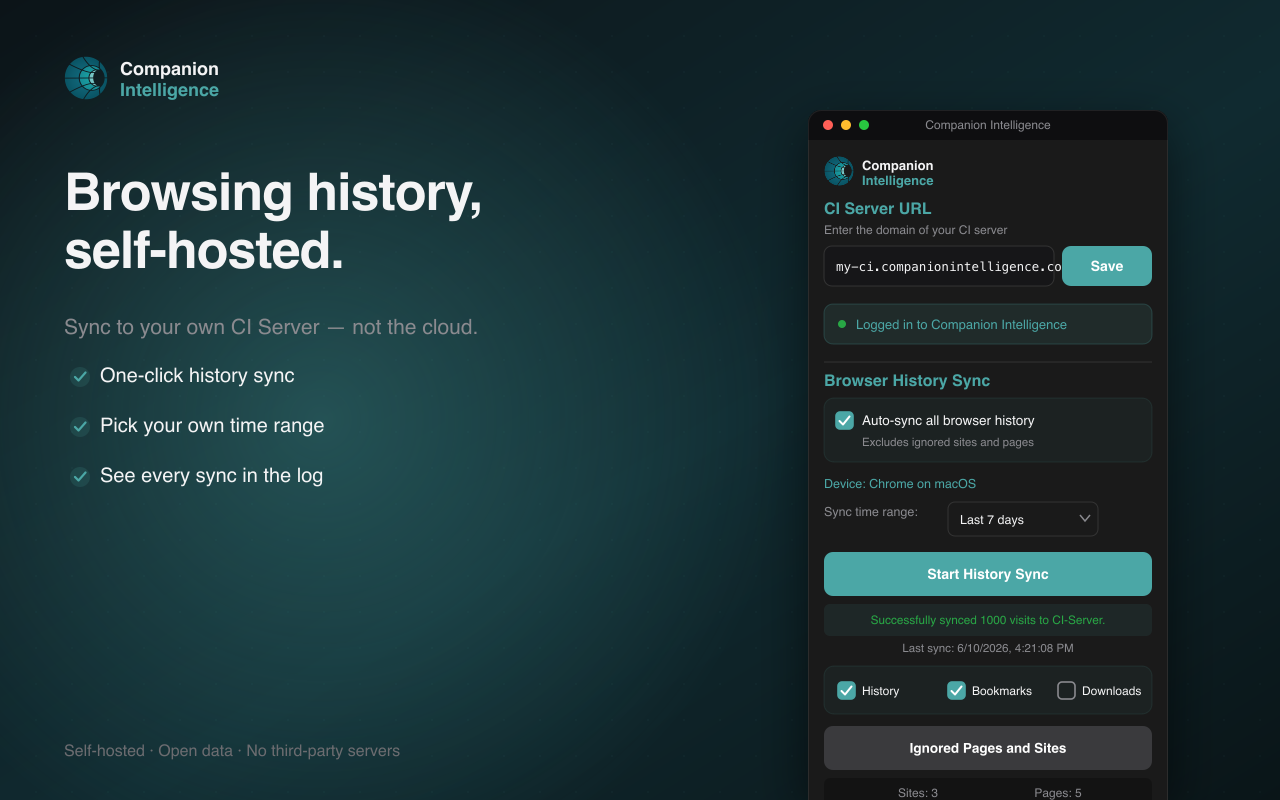
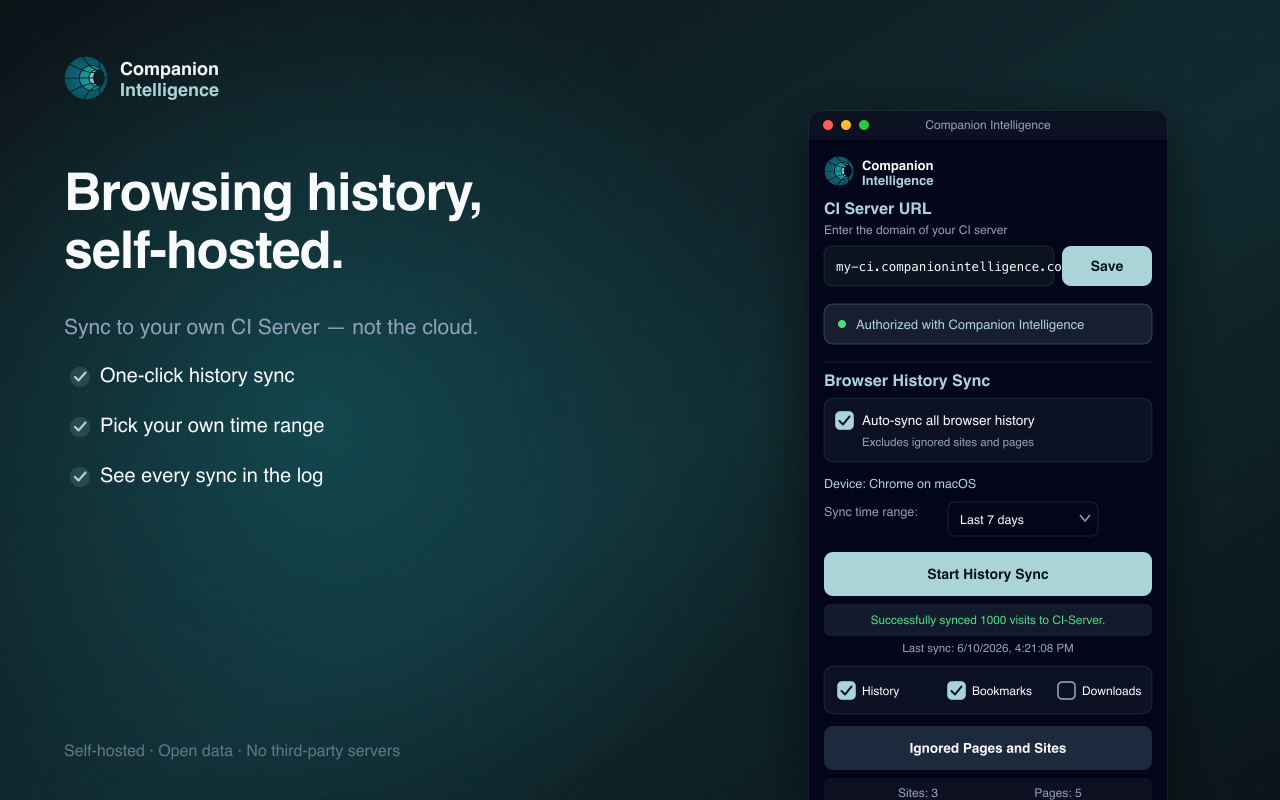
style(popup): migrate App.tsx to CI tokens + regenerate marketing/UI art (#57)
* style(popup): migrate App.tsx to CI design-system tokens

Consume the canonical teal --primary, semantic status tokens, and
enriched palette v0.2.0 that PR #55 landed in theme.css. The popup was
the last file still hardcoding ~125 hex values in Tailwind arbitrary
classes (an off-canon teal #4ba7a6 for headings/CTAs/accents, raw
#dc3545/#28a745/#ffc107 status colors, and #333/#888/#666/#ddd grays).

- #4ba7a6 -> text-primary / bg-primary (or the default Button variant)
- primary "Authorize" CTA -> var(--gradient-brand)
- #dc3545 -> text-destructive / bg-destructive; Clear button now relies
  on its variant="destructive"
- getStatusColor returns var(--success|--destructive|--warning|
  --muted-foreground) so log status colors track the theme
- grays -> muted-foreground / border-border / bg-muted / bg-secondary
- collapse the dead dark:*/light:* triplets (no light: variant exists)
  into single theme-adaptive token classes

Fixes light-theme adaptivity: the sync-log table was a hardcoded
#1a1a1a box that ignored the theme; it now renders as bg-card.
Layout and behavior unchanged; colors move to the canon.

Verified: yarn build (Chrome MV3) passes, tsc --noEmit + eslint clean,
lint-canon hex warnings on App.tsx 94 -> 0, and a light/dark visual
before/after against the production-compiled popup.css.

* style(store-assets): regenerate marketing/UI art with canonical CI teal

The README/store screenshots embedded the popup in the off-canon teal
[…]

diff --git a/src/entrypoints/popup/App.tsx b/src/entrypoints/popup/App.tsx
@@ -268,16 +268,18 @@ export default function App() {
     linkElement.click();
   };
 
+  // Map sync-log statuses onto the design-system semantic tokens (defined in
+  // theme.css for both light and dark), so status colors track the theme.
   const getStatusColor = (status: string) => {
     switch (status) {
       case "success":
-        return "#28a745";
+        return "var(--success)";
       case "failed":
-        return "#dc3545";
+        return "var(--destructive)";
       case "partial":
-        return "#ffc107";
+        return "var(--warning)";
       default:
-        return "#6c757d";
+        return "var(--muted-foreground)";
     }
   };
 
@@ -318,10 +320,10 @@ export default function App() {
       >
         {/* CI Server URL Section */}
         <div className="mb-6">
-          <h4 className="m-0 mb-2 text-[#4ba7a6] text-[1.25em] font-semibold">
+          <h4 className="m-0 mb-2 text-primary text-[1.25em] font-semibold">
             CI Server URL
           </h4>
-          <p className="mb-3 text-[1em] text-[#888]">
+          <p className="mb-3 text-[1em] text-muted-foreground">
             Enter the domain of your CI server
           </p>
           <form onSubmit={changeDomain} className="flex flex-col gap-2">
@@ -340,7 +342,7 @@ export default function App() {
               </div>
               <Button
                 onClick={changeDomain}
-                className="bg-[#4ba7a6] text-white border-[#4ba7a6] hover:bg-[#2f6b7e] hover:border-[#2f6b7e] min-h-[44px] active:translate-y-[1px] transition-all"
+                className="min-h-[44px] active:translate-y-[1px] transition-all"
               >
                 Save
               </Button>
@@ -351,7 +353,7 @@ export default function App() {
         {domain?.length > 0 &&
           (token ? (
             <Button
-              className="text-center mb-4 size-4 p-2 text-[#888] rounded-lg h-10 border-t bg-[rgba(75,167,166,0.1)] block w-full font-medium no-underline hover:bg-[rgba(75,167,166,0.15)] transition-colors"
+              className="text-center mb-4 size-4 p-2 text-muted-foreground rounded-lg h-10 border-t bg-primary/10 block w-full font-medium no-underline hover:bg-primary/15 transition-colors"
               onClick={() => {
                 window.open(`https://${serverDomain}`, "_blank");
               }}
@@ -362,14 +364,15 @@ export default function App() {
             <Button
               onClick={handleAuthorize}
               disabled={authorizing}
-              className="text-center mb-4 p-2 rounded-lg h-10 block w-full font-medium no-underline transition-colors bg-[#4ba7a6] text-white border-[#4ba7a6] hover:bg-[#2f6b7e] hover:border-[#2f6b7e] disabled:opacity-60 disabled:cursor-not-allowed"
+              style={{ background: "var(--gradient-brand)" }}
+              className="text-center mb-4 p-2 rounded-lg h-10 block w-full font-medium no-underline transition-all text-white hover:opacity-90 disabled:opacity-60 disabled:cursor-not-allowed"
             >
               {authorizing ? "Authorizing…" : "Authorize with Companion"}
             </Button>
           ))}
 
         {authError && (
-          <div className="mb-4 p-2 rounded text-[0.85em] text-[#dc3545] bg-[rgba(220,53,69,0.1)]">
+          <div className="mb-4 p-2 rounded text-[0.85em] text-destructive bg-destructive/10">
             {authError}
           </div>
         )}
@@ -377,19 +380,19 @@ export default function App() {
         {token && (
           <div className="mt-6 pt-4">
             <div className="mb-4">
-              <h4 className="m-0 mb-2 text-[#4ba7a6] text-[1.25em] font-semibold pt-4 border-t border-[#333] dark:border-[#333] light:border-[#ddd]">
+              <h4 className="m-0 mb-2 text-primary text-[1.25em] font-semibold pt-4 border-t border-border">
                 Browser History Sync
               </h4>
             </div>
 
-            <Field className="mb-4 p-4 bg-[rgba(75,167,166,0.05)] dark:bg-[rgba(75,167,166,0.05)] light:bg-[rgba(75,167,166,0.08)] rounded-lg text-left">
+            <Field className="mb-4 p-4 bg-primary/5 rounded-lg text-left">
               <Field orientation="horizontal">
                 <Checkbox
                   id="auto-sync-enabled"
                   name="auto-sync-enabled"
                   checked={autoSyncEnabled}
                   onCheckedChange={handleAutoSyncToggle}
-                  className="w-[18px] h-[18px] cursor-pointer accent-[#4ba7a6]"
+                  className="w-[18px] h-[18px] cursor-pointer accent-primary"
                 />
                 <Field.Label
                   htmlFor="auto-sync-enabled"
@@ -398,26 +401,26 @@ export default function App() {
                   Auto-sync all browser history
                 </Field.Label>
               </Field>
-              <Field.Description className="mt-2 ml-7 text-[#888] dark:text-[#888] light:text-[#666] leading-[1.4] text-[0.9em]">
+              <Field.Description className="mt-2 ml-7 text-muted-foreground leading-[1.4] text-[0.9em]">
                 Excludes ignored sites and pages
               </Field.Description>
             </Field>
 
             {deviceId ? (
               <div className="mb-4 p-3 rounded text-left">
-                <p className="m-0 text-[0.9em] text-[#4ba7a6]">
+                <p className="m-0 text-[0.9em] text-primary">
                   Device: {deviceName || "Unknown Device"}
                 </p>
               </div>
             ) : (
               <div className="mb-4 p-3 rounded text-left">
-                <p className="m-0 text-[0.9em] text-[#888] mb-2">
+                <p className="m-0 text-[0.9em] text-muted-foreground mb-2">
                   Not Authenticated
                 </p>
-                <p className="text-[0.9em] text-[#888] my-2">
+                <p className="text-[0.9em] text-muted-foreground my-2">
                   Please log in through the main application first.
                 </p>
-                <p className="text-[0.8em] text-[#666] my-1 italic">
+                <p className="text-[0.8em] text-muted-foreground my-1 italic">
                   This extension requires authentication to sync browser
                   history.
                 </p>
@@ -429,7 +432,7 @@ export default function App() {
               <div className="mb-3 flex items-center gap-2 flex-wrap">
                 <label
                   htmlFor="syncTimeRange"
-                  className="text-[0.9em] font-medium text-[#888]"
+                  className="text-[0.9em] font-medium text-muted-foreground"
                 >
                   Sync time range:
                 </label>
@@ -438,7 +441,7 @@ export default function App() {
                   value={syncTimeRange}
                   onChange={(e) => setSyncTimeRange(e.target.value)}
                   disabled={historySyncInProgress}
-                  className="w-[140px] min-h-[36px] text-sm rounded-md text-foreground border border-[#333] bg-transparent px-3 py-2 text-[#fff] outline-none focus:border-[#4ba7a6] focus:ring-2 focus:ring-[#4ba7a6]/50 disabled:cursor-not-allowed disabled:opacity-50 hover:bg-[rgba(75,167,166,0.05)]"
+                  className="w-[140px] min-h-[36px] text-sm rounded-md text-foreground border border-border bg-transparent px-3 py-2 outline-none focus:border-primary focus:ring-2 focus:ring-primary/50 disabled:cursor-not-allowed disabled:opacity-50 hover:bg-primary/5"
                 >
                   <option value="1">Last 24 hours</option>
                   <option value="7">Last 7 days</option>
@@ -453,26 +456,26 @@ export default function App() {
                 disabled={historySyncInProgress}
                 className={`rounded-lg border border-transparent px-[1.4em] py-[0.8em] text-base font-medium font-inherit cursor-pointer transition-all min-h-[44px] min-w-[44px] w-full touch-manipulation ${
                   historySyncInProgress
-                    ? "opacity-60 cursor-not-allowed bg-[#333] dark:bg-[#333] light:bg-[#f0f0f0] text-[#888] dark:text-[#888] light:text-[#999] border-[#333] dark:border-[#333] light:border-[#ddd]"
-                    : "bg-[#4ba7a6] text-white border-[#4ba7a6] hover:bg-[#2f6b7e] hover:border-[#2f6b7e] active:translate-y-[1px]"
+                    ? "opacity-60 cursor-not-allowed bg-muted text-muted-foreground border-border"
+                    : "bg-primary text-primary-foreground border-primary hover:bg-primary/90 active:translate-y-[1px]"
                 }`}
               >
                 {historySyncInProgress ? "Syncing..." : "Start History Sync"}
               </Button>
             </div>
             {historySyncStatus && (
-              <div className="text-[0.85em] text-[#666] dark:text-[#666] light:text-[#333] my-2 p-2 rounded bg-[rgba(75,167,166,0.1)]">
+              <div className="text-[0.85em] text-muted-foreground my-2 p-2 rounded bg-primary/10">
                 {historySyncStatus}
               </div>
             )}
             {lastHistorySync && (
-              <div className="text-[1em] text-[#888] dark:text-[#888] light:text-[#666] text-center">
+              <div className="text-[1em] text-muted-foreground text-center">
                 Last sync: {new Date(lastHistorySync).toLocaleString()}
               </div>
             )}
 
             {/* Compact sync toggles moved below sync button */}
-            <div className="flex flex-col gap-2 mt-4 p-4 bg-[rgba(75,167,166,0.05)] rounded-lg border-t border-[rgba(75,167,166,0.2)]">
+            <div className="flex flex-col gap-2 mt-4 p-4 bg-primary/5 rounded-lg border-t border-primary/20">
               <Field.Group className="max-w-lg w-full">
                 <Field orientation="horizontal">
                   <Checkbox
@@ -480,7 +483,7 @@ export default function App() {
                     name="history-sync-enabled"
                     checked={historySyncEnabled}
                     onCheckedChange={handleHistorySyncToggle}
-                    className="w-[18px] h-[18px] cursor-pointer accent-[#4ba7a6]"
+                    className="w-[18px] h-[18px] cursor-pointer accent-primary"
                   />
                   <Label htmlFor="history-sync-enabled">History</Label>
                 </Field>
@@ -506,16 +509,16 @@ export default function App() {
             </div>
 
             {/* Sync History & Logs Section */}
-            <div className="mt-6 pt-6 border-t border-[#333] dark:border-[#333] light:border-[#ddd]">
+            <div className="mt-6 pt-6 border-t border-border">
               <div className="flex justify-between items-center mb-3 flex-wrap gap-2">
-                <h4 className="text-[0.95em] m-0 text-[#4ba7a6] font-semibold">
+                <h4 className="text-[0.95em] m-0 text-primary font-semibold">
                   Sync History & Logs
                 </h4>
                 <div className="flex gap-2 items-center flex-wrap">
                   <Button
                     onClick={() => setShowSyncLogs(!showSyncLogs)}
                     variant="outline"
-                    className="text-xs px-2 py-1 bg-transparent text-[#4ba7a6] border-[#4ba7a6] hover:bg-[rgba(75,167,166,0.1)] min-h-[36px]"
+                    className="text-xs px-2 py-1 bg-transparent text-primary border-primary hover:bg-primary/10 min-h-[36px]"
                   >
                     {showSyncLogs
                       ? "Hide Logs"
@@ -526,7 +529,7 @@ export default function App() {
                       <Button
                         onClick={exportSyncLogs}
                         variant="outline"
-                        className="text-xs px-2 py-1 bg-transparent text-[#4ba7a6] border-[#4ba7a6] hover:bg-[rgba(75,167,166,0.1)] min-h-[36px]"
+                        className="text-xs px-2 py-1 bg-transparent text-primary border-primary hover:bg-primary/10 min-h-[36px]"
                         title="Export logs as JSON file"
                       >
                         Export
@@ -534,7 +537,7 @@ export default function App() {
                       <Button
                         onClick={clearSyncLogs}
                         variant="destructive"
-                        className="text-xs px-2 py-1 bg-[#dc3545] text-white border-[#dc3545] hover:bg-[#c82333] hover:border-[#c82333] min-h-[36px]"
+                        className="text-xs px-2 py-1 min-h-[36px]"
                         title="Clear all sync logs"
                       >
                         Clear
@@ -547,12 +550,12 @@ export default function App() {
               {showSyncLogs && (
                 <div className="mt-3">
                   {syncHistoryLogs.length === 0 ? (
-                    <div className="text-center p-4 text-[#888] text-xs italic bg-white/5 border border-dashed border-[#333] rounded">
+                    <div className="text-center p-4 text-muted-foreground text-xs italic bg-white/5 border border-dashed border-border rounded">
                       No sync operations recorded yet.
                     </div>
                   ) : (
-                    <Card className="bg-[#1a1a1a] dark:bg-[#1a1a1a] light:bg-[#f9f9f9] rounded border border-[#333] dark:border-[#333] light:border-[#ddd] overflow-hidden">
-                      <div className="grid gap-2 p-2 bg-[#333] dark:bg-[#333] light:bg-[#f0f0f0] font-semibold text-xs text-white dark:text-white light:text-[#213547] grid-cols-[2fr_1fr_1fr]">
+                    <Card className="bg-card rounded border border-border overflow-hidden">
+                      <div className="grid gap-2 p-2 bg-muted font-semibold text-xs text-foreground grid-cols-[2fr_1fr_1fr]">
                         <span>Date & Time</span>
                         <span>Range</span>
                         <span>Status</span>
@@ -571,7 +574,7 @@ export default function App() {
                         }) => (
                           <div
                             key={log.id}
-                            className="grid gap-2 p-2 text-background border-b border-[#333] dark:border-[#333] light:border-[#e0e0e0] text-xs items-center last:border-b-0 even:bg-white/[0.02] dark:even:bg-white/[0.02] light:even:bg-[#f7f7f7] grid-cols-[2fr_1fr_1fr]"
+                            className="grid gap-2 p-2 text-background border-b border-border text-xs items-center last:border-b-0 even:bg-white/[0.02] grid-cols-[2fr_1fr_1fr]"
                           >
                             <div className="font-mono text-xs truncate">
                               {new Date(log.timestamp).toLocaleString()}
@@ -589,7 +592,7 @@ export default function App() {
                                 log.status.slice(1)}
                               {log.error && (
                                 <div
-                                  className="text-[10px] text-[#dc3545] mt-1 italic truncate"
+                                  className="text-[10px] text-destructive mt-1 italic truncate"
                                   title={log.error}
                                 >
                                   ⚠ {log.error.substring(0, 20)}...
@@ -608,15 +611,15 @@ export default function App() {
             <div className="flex flex-col gap-2 mb-4 mt-4">
               <Button
                 onClick={() => setShowBlacklistManager(true)}
-                className="rounded-lg border border-transparent px-[1.4em] py-[0.8em] text-base font-medium font-inherit cursor-pointer transition-all min-h-[44px] min-w-[44px] touch-manipulation bg-[#555] dark:bg-[#555] light:bg-[#e0e0e0] text-white dark:text-white light:text-[#213547] border-[#555] dark:border-[#555] light:border-[#d0d0d0] hover:bg-[#666] dark:hover:bg-[#666] light:hover:bg-[#d0d0d0] hover:border-[#666] dark:hover:border-[#666] light:hover:border-[#c0c0c0] active:translate-y-[1px] w-full"
+                className="rounded-lg border border-transparent px-[1.4em] py-[0.8em] text-base font-medium font-inherit cursor-pointer transition-all min-h-[44px] min-w-[44px] touch-manipulation bg-secondary text-secondary-foreground border-secondary hover:bg-secondary/80 hover:border-secondary/80 active:translate-y-[1px] w-full"
               >
                 Ignored Pages and Sites
               </Button>
-              <div className="flex justify-around p-2 bg-[rgba(0,0,0,0.2)] dark:bg-[rgba(0,0,0,0.2)] light:bg-[rgba(0,0,0,0.05)] rounded text-[0.85em]">
-                <span className="text-[#888] dark:text-[#888] light:text-[#666]">
+              <div className="flex justify-around p-2 bg-muted rounded text-[0.85em]">
+                <span className="text-muted-foreground">
                   Sites: {siteBlacklist.length}
                 </span>
-                <span className="text-[#888] dark:text-[#888] light:text-[#666]">
+                <span className="text-muted-foreground">
                   Pages: {pageBlacklist.length}
                 </span>
               </div>

diff --git a/README.md b/README.md
@@ -80,8 +80,8 @@ yarn build:firefox       # Firefox MV2 → .output/firefox-mv2
 
 1. Open the popup and enter your **CI Server URL** (e.g. `my-ci.example.com`),
    then **Save**.
-2. Click **Log in to continue** — this opens the CI-Portal OIDC login (PKCE).
-   Once signed in, the popup shows **Logged in** and your device.
+2. Click **Authorize with Companion** — this opens the CI-Portal OIDC login (PKCE).
+   Once signed in, the popup shows **Authorized with Companion Intelligence** and your device.
 3. Choose a **sync time range** and click **Start History Sync**, or enable
    **Auto-sync** to run in the background.
 4. Toggle **History / Bookmarks / Downloads** to control what's captured.
